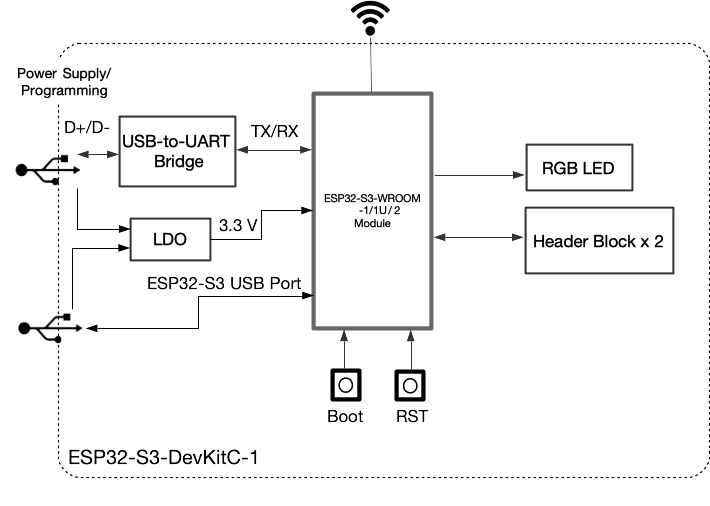
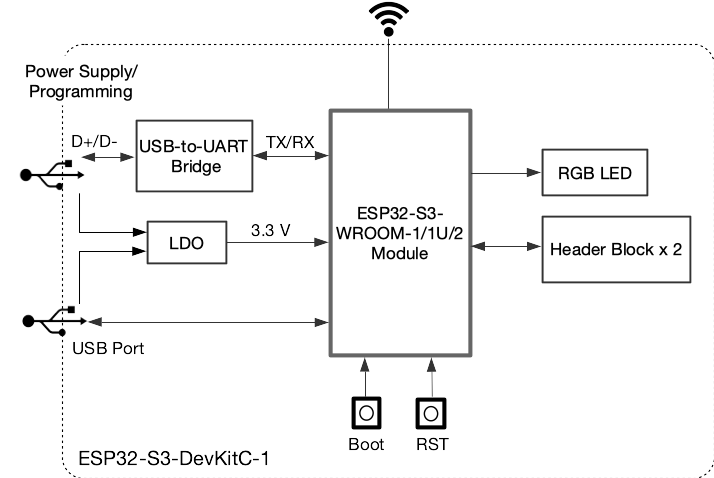
Docs: update figures for esp32-s3-devkitc-1 user guide

diff --git a/docs/en/hw-reference/esp32s3/user-guide-devkitc-1.rst b/docs/en/hw-reference/esp32s3/user-guide-devkitc-1.rst
@@ -38,7 +38,7 @@ Description of Components
 
 .. _user-guide-s3-devkitc-1-v1.1-board-front:
 
-.. figure:: ../../../_static/ESP32-S3-DevKitC-1_v1.1-annotated-photo.png
+.. figure:: ../../../_static/ESP32-S3-DevKitC-1_v2-annotated-photo.png
     :align: center
     :alt: ESP32-S3-DevKitC-1 - front
 
@@ -64,7 +64,7 @@ The key components of the board are described in a counter-clockwise direction.
      - Download button. Holding down **Boot** and then pressing **Reset** initiates Firmware Download mode for downloading firmware through the serial port.
    * - Reset Button
      - Press this button to restart the system.
-   * - ESP32-S3 USB Port
+   * - USB Port
      - ESP32-S3 full-speed USB OTG interface, compliant with the USB 1.1 specification. The interface is used for power supply to the board, for flashing applications to the chip, for communication with the chip using USB 1.1 protocols, as well as for JTAG debugging.
    * - USB-to-UART Bridge
      - Single USB-to-UART bridge chip provides transfer rates up to 3 Mbps.
